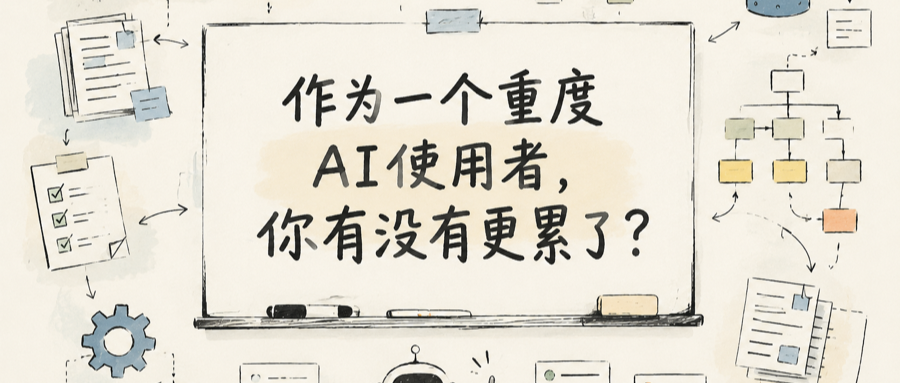
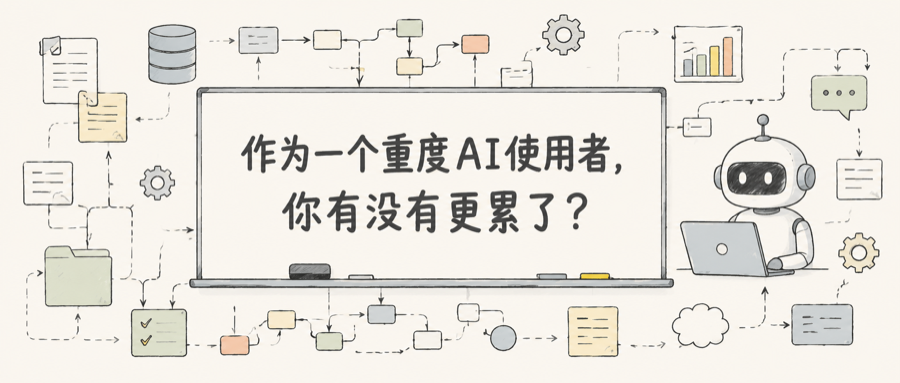
Regenerate wechat covers with direct aspect ratio

diff --git a/projects/content-matrix/accounts/墨予镜/2026-06-06-作为一个重度AI使用者你有没有更累了-成稿-cover-assets/wechat-cover-manifest.md b/projects/content-matrix/accounts/墨予镜/2026-06-06-作为一个重度AI使用者你有没有更累了-成稿-cover-assets/wechat-cover-manifest.md
@@ -1,22 +1,22 @@
 # 公众号封面 Manifest
 
 - 文章标题：作为一个重度AI使用者，你有没有更累了？
-- 生成时间：2026-07-11T17:53:47
+- 生成时间：2026-07-11T18:57:20
 - 尺寸目标：900×383；小封面从中心裁切 383×383
 - 选中候选：2
-- 生成模型/服务：AITECHFLUX / gpt-image-2
+- 生成模型/服务：AITECHFLUX / gpt-image-2 / requested 900x383 / returned 1922x818 / downscale only
 
 ## 候选封面
 
 1. 候选 1
    - path: `/Users/xinran/Downloads/dev/mindsync-worktrees/content-matrix-dev/projects/content-matrix/accounts/墨予镜/2026-06-06-作为一个重度AI使用者你有没有更累了-成稿-cover-assets/wx-cover-01.png`
    - exists: yes
-   - note: 中心标题 + 柔和水彩背景；可用
+   - note: 可用；直接封面比例生成；等比缩放到 900×383；无裁切
 2. 候选 2
    - path: `/Users/xinran/Downloads/dev/mindsync-worktrees/content-matrix-dev/projects/content-matrix/accounts/墨予镜/2026-06-06-作为一个重度AI使用者你有没有更累了-成稿-cover-assets/wx-cover-02.png`
    - exists: yes
-   - note: 白板地图 + 企业 AI 图标环绕；推荐
+   - note: 推荐；直接封面比例生成；等比缩放到 900×383；无裁切
 3. 候选 3
    - path: `/Users/xinran/Downloads/dev/mindsync-worktrees/content-matrix-dev/projects/content-matrix/accounts/墨予镜/2026-06-06-作为一个重度AI使用者你有没有更累了-成稿-cover-assets/wx-cover-03.png`
    - exists: yes
-   - note: 纸面便签 + 判断收口隐喻；有额外便签文字，谨慎使用
+   - note: 可用；直接封面比例生成；等比缩放到 900×383；无裁切
